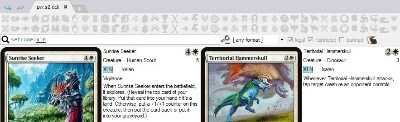
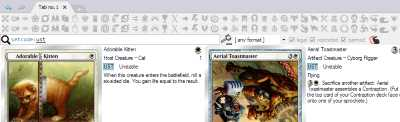
UST

diff --git a/Mtgdb.Gui/SearchString/SearchStringSubsystem.cs b/Mtgdb.Gui/SearchString/SearchStringSubsystem.cs
@@ -155,11 +155,12 @@ namespace Mtgdb.Gui
 			});
 		}
 
-		private void suggested(IntellisenseSuggest intellisenseSuggest)
+		private void suggested(IntellisenseSuggest intellisenseSuggest, SearchStringState searchStringState)
 		{
 			if (_parent.Visible)
 				_findEditor.Invoke(delegate
 				{
+					_suggestSource = searchStringState;
 					updateSuggestListBox(intellisenseSuggest);
 				});
 		}
@@ -469,29 +470,33 @@ namespace Mtgdb.Gui
 
 		private void selectSuggest()
 		{
-			var selectedSuggest = (string) _listBoxSuggest.SelectedItem;
+			var searchStringState = _suggestSource;
+
+			if (!searchStringState.Equals(_suggestModel.SearchStateCurrent))
+				return;
+
+			var selectedSuggest = (string)_listBoxSuggest.SelectedItem;
 
 			if (string.IsNullOrEmpty(selectedSuggest))
 				return;
 
 			selectedSuggest = StringEscaper.Escape(selectedSuggest);
-			applySuggestSelection(selectedSuggest);
+			applySuggestSelection(selectedSuggest, searchStringState);
 		}
 
-		private void applySuggestSelection(string selectedSuggest)
+		private void applySuggestSelection(string selectedSuggest, SearchStringState suggestSource)
 		{
 			var token = _suggestModel.Token;
-			var editParts = _suggestModel.SearchStateCurrent;
 
-			int left = token?.Position ?? editParts.Caret;
+			int left = token?.Position ?? suggestSource.Caret;
 			var length = token?.Value?.Length ?? 0;
 			if (token?.Type.Is(TokenType.Field) == true)
 				// Включим : в токен
-				if (left + length < editParts.Text.Length)
+				if (left + length < suggestSource.Text.Length)
 					length++;
 
-			string prefix = editParts.Text.Substring(0, left);
-			string suffix = editParts.Text.Substring(left + length);
+			string prefix = suggestSource.Text.Substring(0, left);
+			string suffix = suggestSource.Text.Substring(left + length);
 
 			string rightTerminator;
 			if (token?.Type.Is(TokenType.Field) == true)
@@ -632,5 +637,6 @@ namespace Mtgdb.Gui
 
 		private readonly SearchStringHighlighter _highligter;
 		private string _currentText = string.Empty;
+		private SearchStringState _suggestSource;
 	}
 }

diff --git a/Mtgdb.Gui/FormMain/FormMain.Designer.cs b/Mtgdb.Gui/FormMain/FormMain.Designer.cs
@@ -823,9 +823,9 @@
 			// 
 			this._listBoxSuggest.BorderStyle = System.Windows.Forms.BorderStyle.FixedSingle;
 			this._listBoxSuggest.FormattingEnabled = true;
-			this._listBoxSuggest.Location = new System.Drawing.Point(12, 94);
+			this._listBoxSuggest.Location = new System.Drawing.Point(12, 84);
 			this._listBoxSuggest.Name = "_listBoxSuggest";
-			this._listBoxSuggest.Size = new System.Drawing.Size(192, 119);
+			this._listBoxSuggest.Size = new System.Drawing.Size(204, 119);
 			this._listBoxSuggest.TabIndex = 9;
 			this._listBoxSuggest.TabStop = false;
 			// 
@@ -1046,8 +1046,8 @@
 			// FormMain
 			// 
 			this.ClientSize = new System.Drawing.Size(1641, 826);
-			this.Controls.Add(this._layoutRoot);
 			this.Controls.Add(this._listBoxSuggest);
+			this.Controls.Add(this._layoutRoot);
 			this.FormBorderStyle = System.Windows.Forms.FormBorderStyle.None;
 			this.Icon = ((System.Drawing.Icon)(resources.GetObject("$this.Icon")));
 			this.Name = "FormMain";

diff --git a/Mtgdb.Gui/FormMain/SuggestModel.cs b/Mtgdb.Gui/FormMain/SuggestModel.cs
@@ -17,7 +17,7 @@ namespace Mtgdb.Gui
 		private string _language;
 		public string LanguageCurrent;
 
-		public event Action<IntellisenseSuggest> Suggested;
+		public event Action<IntellisenseSuggest, SearchStringState> Suggested;
 		
 		private readonly Thread _suggestThread;
 
@@ -39,14 +39,14 @@ namespace Mtgdb.Gui
 
 		private void suggest()
 		{
-			_searchState = SearchStateCurrent;
+			var searchState =_searchState = SearchStateCurrent;
 			_language = LanguageCurrent;
 
 			var suggest = _spellchecker.Suggest(_searchState.Text, _searchState.Caret, _language, SuggestCount);
 			Token = suggest.Token;
 
 			if (isSuggestUpToDate())
-				Suggested?.Invoke(suggest);
+				Suggested?.Invoke(suggest, searchState);
 		}
 
 		private bool isSuggestUpToDate()

diff --git a/Mtgdb.Gui/SearchString/SearchStringState.cs b/Mtgdb.Gui/SearchString/SearchStringState.cs
@@ -1,6 +1,8 @@
-namespace Mtgdb.Gui
+using System;
+
+namespace Mtgdb.Gui
 {
-	public class SearchStringState
+	public class SearchStringState : IEquatable<SearchStringState>
 	{
 		public SearchStringState(string text, int caret)
 		{
@@ -8,8 +10,13 @@
 			Caret = caret;
 		}
 
-		public string Text { get; private set; }
+		public string Text { get; }
 
-		public int Caret { get; private set; }
+		public int Caret { get; }
+
+		public bool Equals(SearchStringState other)
+		{
+			return other != null && string.Equals(Text, other.Text) && Caret == other.Caret;
+		}
 	}
 }

diff --git a/SolutionInfo.cs b/SolutionInfo.cs
@@ -1,3 +1,3 @@
 using System.Reflection;
 
-[assembly: AssemblyVersion("3.0.8.0")]
+[assembly: AssemblyVersion("3.0.9.1")]
